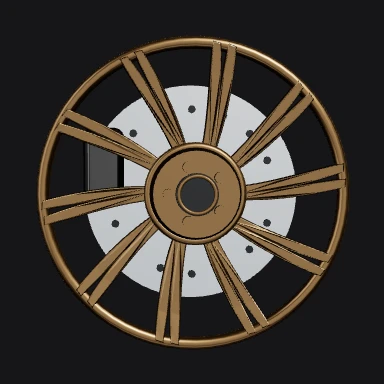
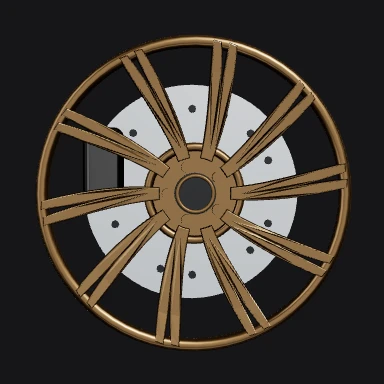
fix: seat forged wheels inside source tires and recess hubs

diff --git a/src/components/configurator/ForgedWheelSet.tsx b/src/components/configurator/ForgedWheelSet.tsx
@@ -1,7 +1,10 @@
 import { useEffect, useMemo } from "react";
-import { RoundedBox } from "@react-three/drei";
+import { RoundedBox, useGLTF } from "@react-three/drei";
 import * as THREE from "three";
 import { CALIPER_FINISHES, RIM_FINISHES } from "./config";
+import { DRACO_PATH } from "./models";
+import type { Fit } from "./fitModel";
+import { measureWheelFitments, WHEEL_LIP } from "./wheelFitment";
 
 export interface ForgedWheelSpec {
   spokes: number;
@@ -20,11 +23,6 @@ export function getForgedWheelSpec(design: number): ForgedWheelSpec {
     { spokes: 12, paired: false, aero: true, twist: -0.12, spokeWidth: 0.014 },
   ][design] ?? { spokes: 12, paired: true, aero: false, twist: 0, spokeWidth: 0.026 };
 }
-
-const FRONT_WHEEL_X = 1.5;
-const REAR_WHEEL_X = -1.34;
-const WHEEL_Y = 0.23;
-const WHEEL_Z = 0.88;
 
 export function createSpokeGeometry(width: number, twist = 0) {
   const shape = new THREE.Shape();
@@ -58,11 +56,15 @@ export function ForgedWheel({
   design,
   finishIndex,
   caliperIndex,
+  radialScale = 1,
+  barrelDepth = 0.25,
 }: {
   position: [number, number, number];
   design: number;
   finishIndex: number;
   caliperIndex: number;
+  radialScale?: number;
+  barrelDepth?: number;
 }) {
   const spec = getForgedWheelSpec(design);
   const finish = RIM_FINISHES[finishIndex] ?? RIM_FINISHES[0];
@@ -99,9 +101,9 @@ export function ForgedWheel({
   }, [spec.paired, spec.spokes]);
 
   return (
-    <group position={position} rotation={[position[2] > 0 ? Math.PI / 2 : -Math.PI / 2, 0, 0]}>
-      <mesh material={materials.barrel} position={[0, 0.025, 0]} receiveShadow>
-        <cylinderGeometry args={[0.345, 0.345, 0.25, 64, 1, true]} />
+    <group position={position} rotation={[position[2] > 0 ? Math.PI / 2 : -Math.PI / 2, 0, 0]} scale={[radialScale, 1, radialScale]}>
+      <mesh material={materials.barrel} position={[0, WHEEL_LIP.depth - barrelDepth / 2, 0]} receiveShadow>
+        <cylinderGeometry args={[WHEEL_LIP.radius, WHEEL_LIP.radius, barrelDepth, 64, 1, true]} />
       </mesh>
       <mesh material={materials.brakeDark} position={[0, 0.033, 0]}>
         <cylinderGeometry args={[0.115, 0.115, 0.024, 48]} />
@@ -124,14 +126,14 @@ export function ForgedWheel({
       <RoundedBox args={[0.09, 0.058, 0.16]} radius={0.022} smoothness={3} position={[0.2, 0.095, 0.065]} material={materials.caliper} />
 
       {spec.aero && (
-        <mesh material={materials.rim} position={[0, 0.145, 0]}>
+        <mesh material={materials.rim} position={[0, 0.125, 0]}>
           <cylinderGeometry args={[0.3, 0.3, 0.024, 64]} />
         </mesh>
       )}
-      <mesh material={materials.rim} position={[0, 0.175, 0]} rotation={[-Math.PI / 2, 0, 0]}>
-        <torusGeometry args={[0.325, 0.014, 16, 64]} />
+      <mesh material={materials.rim} position={[0, WHEEL_LIP.depth, 0]} rotation={[-Math.PI / 2, 0, 0]}>
+        <torusGeometry args={[WHEEL_LIP.radius, WHEEL_LIP.tube, 16, 64]} />
       </mesh>
-      <mesh material={materials.rim} position={[0, 0.178, 0]} rotation={[-Math.PI / 2, 0, 0]}>
+      <mesh material={materials.rim} position={[0, 0.137, 0]} rotation={[-Math.PI / 2, 0, 0]}>
         <torusGeometry args={[0.102, 0.009, 12, 48]} />
       </mesh>
       {spokeAngles.map((angle, index) => (
@@ -144,8 +146,8 @@ export function ForgedWheel({
         />
       ))}
 
-      <mesh material={materials.rim} position={[0, 0.19, 0]}>
-        <cylinderGeometry args={[0.092, 0.104, 0.05, 40]} />
+      <mesh material={materials.rim} position={[0, 0.134, 0]}>
+        <cylinderGeometry args={[0.092, 0.104, 0.03, 40]} />
       </mesh>
       {Array.from({ length: 5 }, (_, index) => {
         const angle = (index / 5) * Math.PI * 2;
@@ -153,16 +155,16 @@ export function ForgedWheel({
           <mesh
             key={`lug-${index}`}
             material={materials.rim}
-            position={[Math.cos(angle) * 0.06, 0.222, Math.sin(angle) * 0.06]}
+            position={[Math.cos(angle) * 0.06, 0.155, Math.sin(angle) * 0.06]}
           >
-            <cylinderGeometry args={[0.012, 0.012, 0.018, 12]} />
+            <cylinderGeometry args={[0.012, 0.012, 0.012, 12]} />
           </mesh>
         );
       })}
-      <mesh material={materials.brakeDark} position={[0, 0.226, 0]}>
-        <cylinderGeometry args={[0.045, 0.045, 0.018, 32]} />
+      <mesh material={materials.brakeDark} position={[0, 0.157, 0]}>
+        <cylinderGeometry args={[0.045, 0.045, 0.012, 32]} />
       </mesh>
-      <mesh material={materials.rim} position={[0, 0.239, 0]} rotation={[-Math.PI / 2, 0, 0]}>
+      <mesh material={materials.rim} position={[0, 0.167, 0]} rotation={[-Math.PI / 2, 0, 0]}>
         <torusGeometry args={[0.039, 0.004, 10, 32]} />
       </mesh>
     </group>
@@ -173,22 +175,28 @@ export default function ForgedWheelSet({
   design,
   finish,
   caliper,
+  kitUrl,
+  fit,
 }: {
   design: number;
   finish: number;
   caliper: number;
+  kitUrl: string;
+  fit: Fit;
 }) {
+  const { scene } = useGLTF(`${kitUrl}?v=20260913-cabin`, DRACO_PATH);
+  const wheels = useMemo(() => measureWheelFitments(scene, fit), [scene, fit]);
   return (
     <group>
-      {[FRONT_WHEEL_X, REAR_WHEEL_X].flatMap((x) => [WHEEL_Z, -WHEEL_Z].map((z) => (
+      {wheels.map((wheel, index) => (
         <ForgedWheel
-          key={`${x}-${z}`}
-          position={[x, WHEEL_Y, z]}
+          key={index}
+          {...wheel}
           design={design}
           finishIndex={finish}
           caliperIndex={caliper}
         />
-      )))}
+      ))}
     </group>
   );
 }

diff --git a/scripts/wheel-fitment.test.ts b/scripts/wheel-fitment.test.ts
@@ -1,0 +1,58 @@
+import assert from "node:assert/strict";
+import * as THREE from "three";
+import { fitWheelToTire, measureWheelFitments, WHEEL_LIP } from "../src/components/configurator/wheelFitment";
+
+// Measured fitted bounds of the front/rear source tires and original rim faces.
+const axles = [
+  { x: 1.501018, y: 0.232233, inner: 0.724407, outer: 1.003615, rimOuter: 1.000628, rimRadius: 0.320656 },
+  { x: -1.338691, y: 0.232155, inner: 0.671155, outer: 1.00185, rimOuter: 0.998901, rimRadius: 0.320713 },
+];
+const scene = new THREE.Group();
+const expected: ReturnType<typeof fitWheelToTire>[] = [];
+axles.forEach((axle, index) => {
+  const pairs: Record<string, number[]> = { tire: [], rim: [] };
+  for (const side of [1, -1] as const) {
+    const tire = new THREE.Box3(
+      new THREE.Vector3(axle.x - 0.4063, axle.y - 0.4063, side > 0 ? axle.inner : -axle.outer),
+      new THREE.Vector3(axle.x + 0.4063, axle.y + 0.4063, side > 0 ? axle.outer : -axle.inner),
+    );
+    const rim = new THREE.Box3(
+      new THREE.Vector3(axle.x - axle.rimRadius, axle.y - axle.rimRadius, side > 0 ? axle.rimOuter - 0.02 : -axle.rimOuter),
+      new THREE.Vector3(axle.x + axle.rimRadius, axle.y + axle.rimRadius, side > 0 ? axle.rimOuter : -axle.rimOuter + 0.02),
+    );
+    const fitted = fitWheelToTire(tire, rim, side);
+    expected.push(fitted);
+    const lip = Math.abs(fitted.position[2]) + WHEEL_LIP.depth + WHEEL_LIP.tube;
+    assert.ok(lip <= axle.outer - 0.0029, "rim lip must stay behind the tire sidewall on either side");
+    assert.ok(Math.abs(lip - axle.rimOuter) < 0.0001, "rim must meet the original bead seat, not float inside/outside it");
+    assert.ok(Math.abs(fitted.radialScale * (WHEEL_LIP.radius + WHEEL_LIP.tube) - axle.rimRadius) < 1e-6);
+    const barrelBack = Math.abs(fitted.position[2]) + WHEEL_LIP.depth - fitted.barrelDepth;
+    assert.ok(barrelBack >= axle.inner + 0.0079, "barrel must not protrude through the inner sidewall");
+    assert.ok(fitted.barrelDepth > 0.24 && fitted.barrelDepth < 0.32);
+    for (const [kind, box] of Object.entries({ tire, rim })) {
+      for (const x of [box.min.x, box.max.x]) for (const y of [box.min.y, box.max.y]) for (const z of [box.min.z, box.max.z]) pairs[kind].push(x, y, z);
+    }
+  }
+  for (const kind of ["tire", "rim"] as const) {
+    const geometry = new THREE.BufferGeometry().setAttribute("position", new THREE.Float32BufferAttribute(pairs[kind], 3));
+    const mesh = new THREE.Mesh(geometry);
+    mesh.name = kind === "tire" ? `wheel.FR.00${index + 3}` : index === 0 ? "3F_4056_w4.005" : "2F_4056_w.003";
+    scene.add(mesh);
+  }
+});
+const identity = { position: new THREE.Vector3(), quaternion: new THREE.Quaternion(), scale: 1, carSize: new THREE.Vector3(4.82, 2, 2.1) };
+const actual = measureWheelFitments(scene, identity);
+actual.forEach((wheel, index) => {
+  wheel.position.forEach((value, axis) => assert.ok(Math.abs(value - expected[index].position[axis]) < 1e-6));
+  assert.ok(Math.abs(wheel.radialScale - expected[index].radialScale) < 1e-6);
+});
+assert.ok(actual[2].barrelDepth > actual[0].barrelDepth + 0.04, "rear barrel must follow the wider rear tire");
+const transform = new THREE.Matrix4().compose(new THREE.Vector3(0.3, -0.2, 1.1), new THREE.Quaternion().setFromAxisAngle(new THREE.Vector3(0, 1, 0), Math.PI / 2), new THREE.Vector3(0.8, 0.8, 0.8));
+scene.applyMatrix4(transform.clone().invert());
+const transformedFit = { ...identity, position: new THREE.Vector3(), quaternion: new THREE.Quaternion(), scale: 0.8 };
+transform.decompose(transformedFit.position, transformedFit.quaternion, new THREE.Vector3());
+measureWheelFitments(scene, transformedFit).forEach((wheel, index) => {
+  wheel.position.forEach((value, axis) => assert.ok(Math.abs(value - actual[index].position[axis]) < 1e-6, "source transforms and car fit must use the same coordinates"));
+});
+assert.throws(() => measureWheelFitments(new THREE.Group(), identity), /Missing source wheel geometry/);
+console.log("Four wheel seats, radial sizes, mirrored sides and staggered barrel widths verified.");

diff --git a/src/components/configurator/wheelFitment.ts b/src/components/configurator/wheelFitment.ts
@@ -1,0 +1,52 @@
+import * as THREE from "three";
+import type { Fit } from "./fitModel";
+
+export const WHEEL_LIP = { radius: 0.325, tube: 0.014, depth: 0.175 } as const;
+
+export interface WheelFitment {
+  position: [number, number, number];
+  radialScale: number;
+  barrelDepth: number;
+}
+
+/** Fit the replacement to the original rim seat, not to the tire's widest bulge. */
+export function fitWheelToTire(tire: THREE.Box3, rim: THREE.Box3, side: 1 | -1): WheelFitment {
+  if (tire.isEmpty() || rim.isEmpty()) throw new Error("Missing source wheel geometry");
+  const center = tire.getCenter(new THREE.Vector3());
+  const tireSize = tire.getSize(new THREE.Vector3());
+  const rimSize = rim.getSize(new THREE.Vector3());
+  const radius = Math.max(rimSize.x, rimSize.y) / 2;
+  const outerSidewall = side > 0 ? tire.max.z : -tire.min.z;
+  const originalLip = side > 0 ? rim.max.z : -rim.min.z;
+  const lipSurface = Math.min(originalLip, outerSidewall - 0.003);
+  const origin = lipSurface - WHEEL_LIP.depth - WHEEL_LIP.tube;
+  const innerSidewall = side > 0 ? tire.min.z : -tire.max.z;
+  return {
+    position: [center.x, center.y, side * origin],
+    radialScale: radius / (WHEEL_LIP.radius + WHEEL_LIP.tube),
+    barrelDepth: Math.min(tireSize.z - 0.024, origin + WHEEL_LIP.depth - innerSidewall - 0.008),
+  };
+}
+
+/** Source exports contain a pair of tires / rim faces per axle in each mesh. */
+export function measureWheelFitments(scene: THREE.Object3D, fit: Fit): WheelFitment[] {
+  const bounds = Array.from({ length: 4 }, () => ({ tire: new THREE.Box3(), rim: new THREE.Box3() }));
+  const transform = new THREE.Matrix4().compose(fit.position, fit.quaternion, new THREE.Vector3().setScalar(fit.scale));
+  const point = new THREE.Vector3();
+  scene.updateMatrixWorld(true);
+  scene.traverse((object) => {
+    if (!(object instanceof THREE.Mesh)) return;
+    const name = object.name.replace(/[._\s]/g, "");
+    const tire = /^wheelFR00[34]$/.test(name);
+    const rim = /^(?:3F.*w4005|2F.*w003)$/.test(name);
+    if (!tire && !rim) return;
+    const matrix = new THREE.Matrix4().multiplyMatrices(transform, object.matrixWorld);
+    const positions = object.geometry.getAttribute("position");
+    for (let i = 0; i < positions.count; i++) {
+      point.fromBufferAttribute(positions, i).applyMatrix4(matrix);
+      const index = (point.x > 0 ? 0 : 2) + (point.z > 0 ? 0 : 1);
+      bounds[index][tire ? "tire" : "rim"].expandByPoint(point);
+    }
+  });
+  return bounds.map(({ tire, rim }, index) => fitWheelToTire(tire, rim, index % 2 === 0 ? 1 : -1));
+}

diff --git a/scripts/forged-wheel.test.ts b/scripts/forged-wheel.test.ts
@@ -1,5 +1,6 @@
 import assert from "node:assert/strict";
 import { createSpokeGeometry, getForgedWheelSpec } from "../src/components/configurator/ForgedWheelSet";
+import { WHEEL_LIP } from "../src/components/configurator/wheelFitment";
 
 const designs = Array.from({ length: 5 }, (_, index) => getForgedWheelSpec(index));
 
@@ -16,5 +17,14 @@ geometry.computeBoundingBox();
 assert.ok(geometry.boundingBox!.max.y - geometry.boundingBox!.min.y > 0.04, "spokes need a dished 3D profile");
 assert.ok(Array.from(geometry.attributes.position.array).every(Number.isFinite));
 geometry.dispose();
+for (const design of designs) {
+  const spoke = createSpokeGeometry(design.spokeWidth, design.twist);
+  const positions = spoke.attributes.position;
+  for (let i = 0; i < positions.count; i++) {
+    assert.ok(Math.hypot(positions.getX(i), positions.getZ(i)) <= WHEEL_LIP.radius + WHEEL_LIP.tube, "spokes must not pass through the rim lip into the tire");
+    assert.ok(positions.getY(i) + 0.137 <= WHEEL_LIP.depth + WHEEL_LIP.tube + 0.002, "spoke bevel must remain within the seated wheel face");
+  }
+  spoke.dispose();
+}
 
 console.log("All five forged-wheel designs have distinct geometry specs.");

diff --git a/src/components/configurator/GClassGLTF.tsx b/src/components/configurator/GClassGLTF.tsx
@@ -514,7 +514,7 @@ export default function GClassGLTF({
     <group position-y={groundOffset}>
       <HeadlightRig enabled={config.lights} />
       {config.kit && files.kit && config.rim !== 1 && (
-        <ForgedWheelSet design={config.rim} finish={config.rimFinish} caliper={config.caliper} />
+        <ForgedWheelSet kitUrl={files.kit} fit={fit} design={config.rim} finish={config.rimFinish} caliper={config.caliper} />
       )}
       <group position={fit.position} quaternion={fit.quaternion} scale={fit.scale}>
         {!cadInterior && <CabinDetails night={config.night} interior={config.interior} />}

diff --git a/docs/wheel-previews.md b/docs/wheel-previews.md
@@ -28,3 +28,21 @@ the vertices and that spokes have a non-flat profile.
 This is a presentation and geometry correction, not a claim that the four
 alternative designs are supplied M Monogram CAD models. Only ICONIC Original
 uses the provided original wheel mesh.
+
+## Tire Fitment
+
+`wheelFitment.ts` measures both sides of the original front/rear tire and rim
+meshes using the same body transform as the vehicle. The alternative wheel lip
+matches the source rim diameter and outer face, with at least 3 mm clearance
+behind the tire's widest sidewall. The barrel stays inside both sidewalls;
+the rear barrel follows the wider rear tire. Hub caps and fasteners sit behind
+the lip instead of projecting out of the wheel.
+
+Do not restore the old fixed Z offset of 0.88 m: combined with the model's local
+face depth it placed the lip 6-7 cm outside the tire. Do not increase tire size to
+hide an incorrectly positioned rim. Original CAD tires, tread and ICONIC wheels
+remain unchanged. The source mesh names are shared by the refined and HQ kits.
+
+`wheel-fitment.test.ts` covers all four seats, mirrored sides, transformed source
+coordinates, radial fit and front/rear width differences. `forged-wheel.test.ts`
+also checks the spoke vertices against the seated rim envelope.
